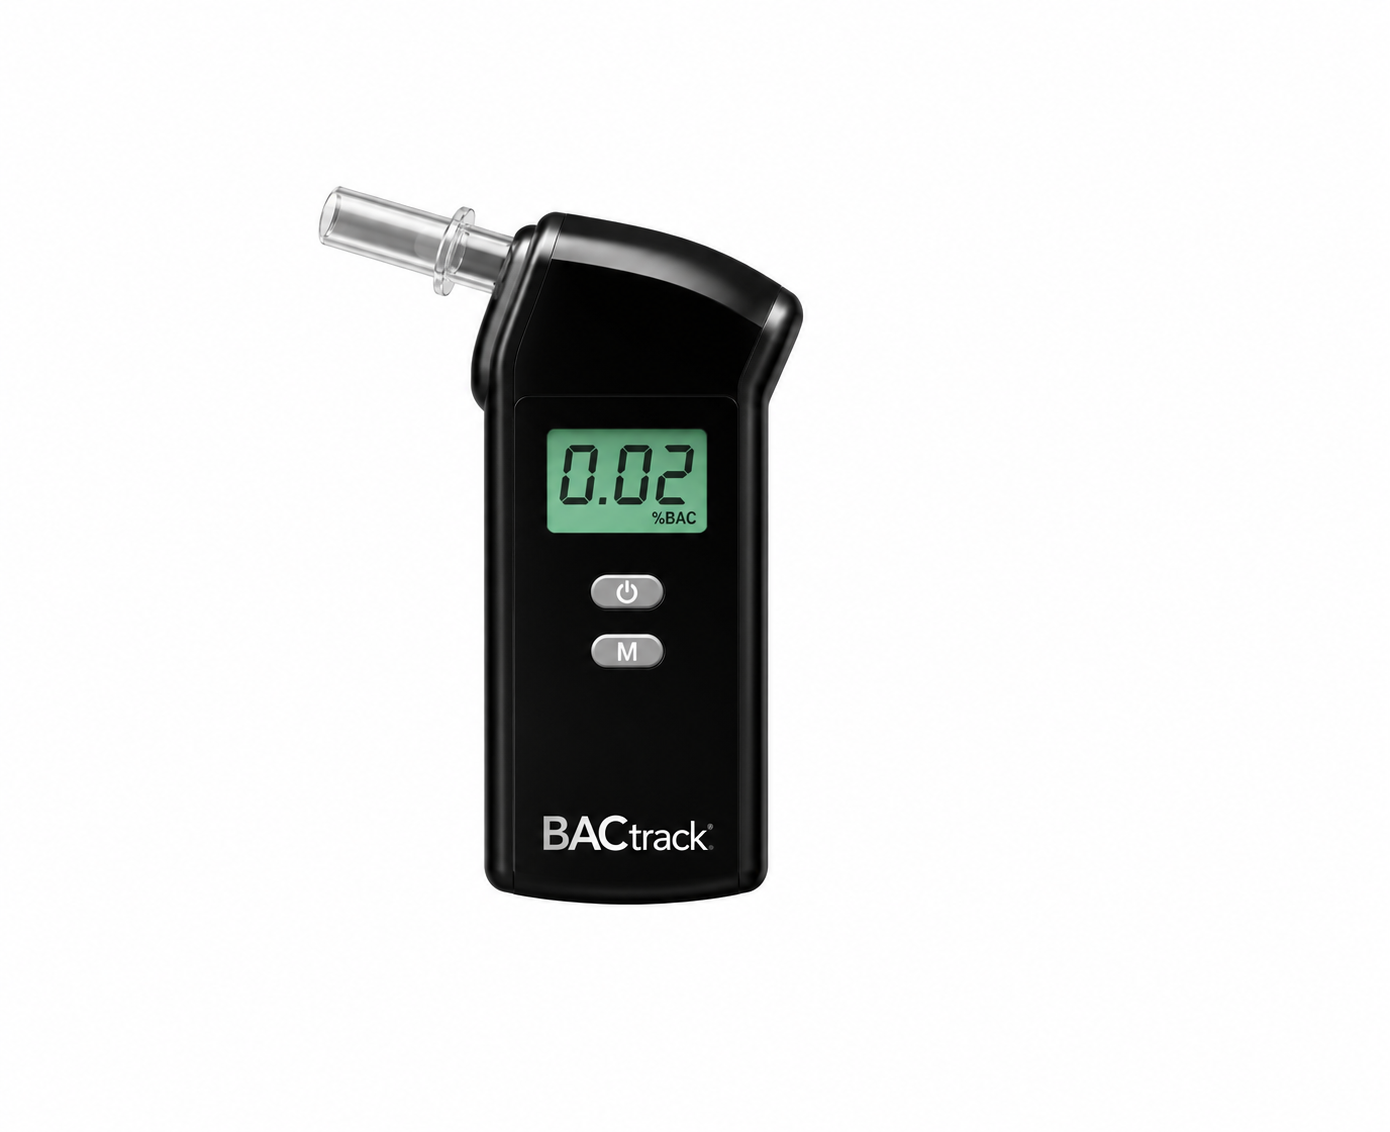
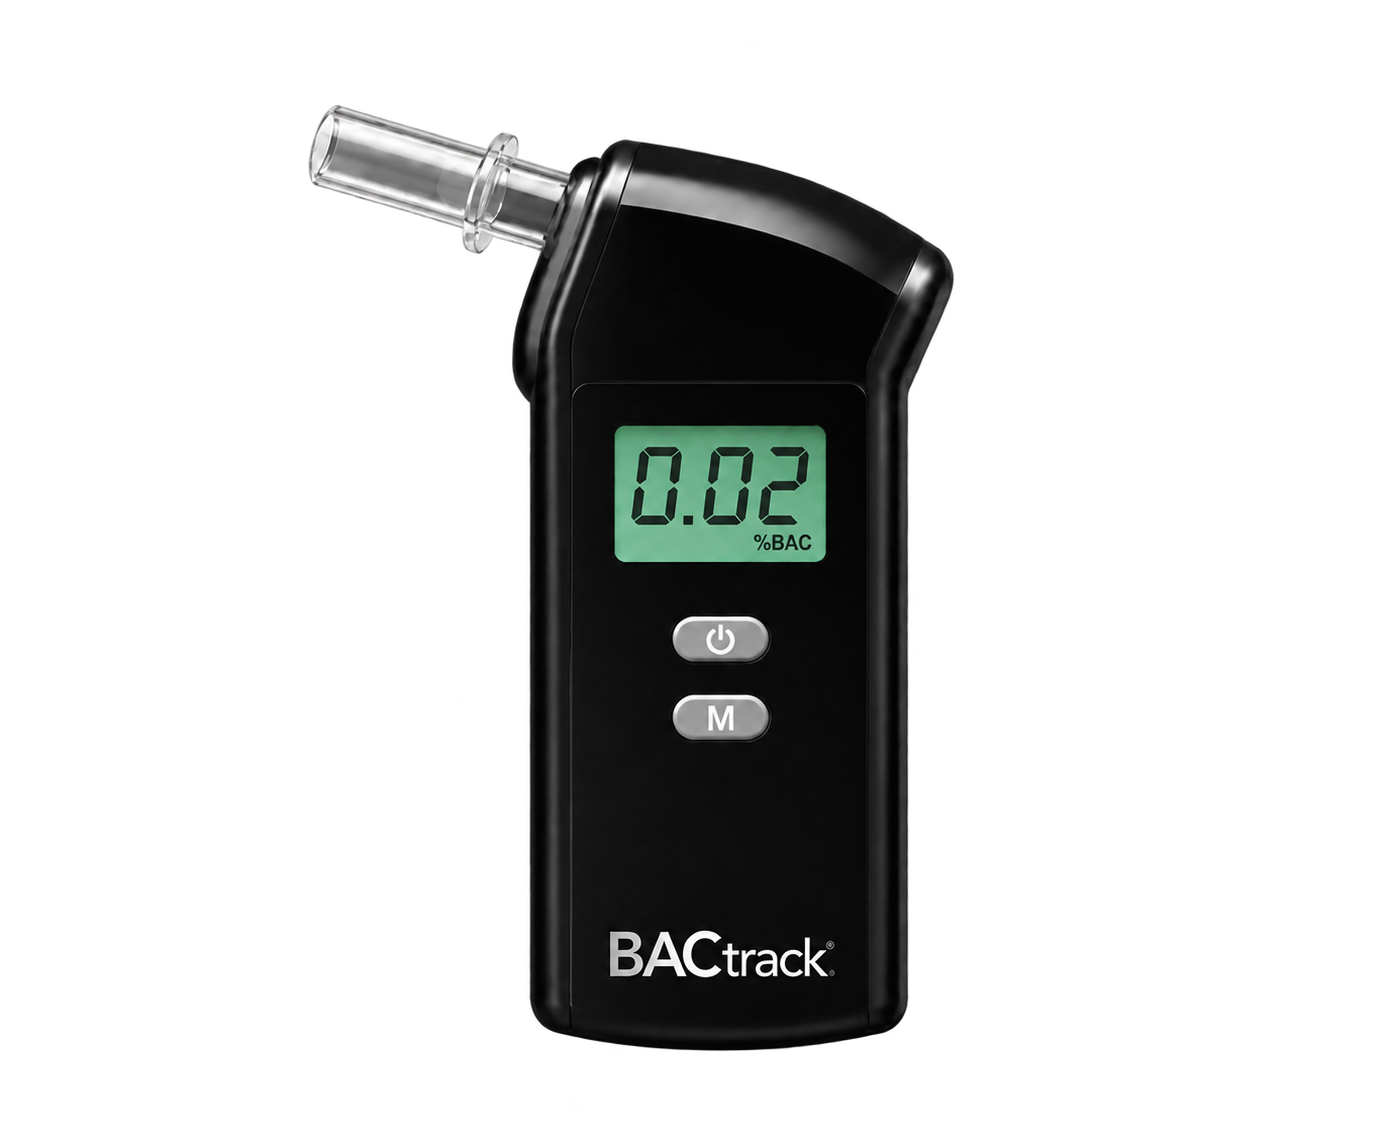
Match craft images to dark theme and add item weights

Changed region(s): [[0.2165, 0.0928, 0.6806, 0.9276]]

diff --git a/src/data/crafts.ts b/src/data/crafts.ts
@@ -24,9 +24,9 @@ const item = (id: string, name: string, category: CraftCategory, materials: numb
   sourcePath: `/ru/items/${type}/${id}`,
 });
 
-const technicalItem = (id: string, name: string, materials: number): CraftItem => ({
-  id, name, category: 'technical', materials, weightKg: null,
-  image: `${import.meta.env.BASE_URL}crafts/${id}.png`,
+const technicalItem = (id: string, name: string, materials: number, weightKg: number, imageVersion?: string): CraftItem => ({
+  id, name, category: 'technical', materials, weightKg,
+  image: `${import.meta.env.BASE_URL}crafts/${id}.png${imageVersion ? `?v=${imageVersion}` : ''}`,
 });
 
 export const craftItems: CraftItem[] = [
@@ -64,10 +64,10 @@ export const craftItems: CraftItem[] = [
   item('834', 'Радар измерения скорости', 'technical', 10, 0.7, 'tool'),
   item('1006', 'Электрическая дубинка', 'technical', 10, 0.58, 'ammunition'),
   item('5000', 'Жезл ДПС', 'technical', 10, 0.5, 'ammunition'),
-  technicalItem('breathalyzer', 'Алкотестер', 5),
-  technicalItem('taumeter', 'Тауметр', 5),
-  technicalItem('beacon-stand', 'Маячковый стенд', 3),
-  technicalItem('traffic-cone', 'Конус', 3),
-  technicalItem('road-fence', 'Дорожное ограждение', 3),
-  technicalItem('concrete-barrier', 'Бетонный отбойник', 3),
+  technicalItem('breathalyzer', 'Алкотестер', 5, 0.2, 'd1f9543f'),
+  technicalItem('taumeter', 'Тауметр', 5, 0.2, '6851c6d4'),
+  technicalItem('beacon-stand', 'Маячковый стенд', 3, 2),
+  technicalItem('traffic-cone', 'Конус', 3, 0.3),
+  technicalItem('road-fence', 'Дорожное ограждение', 3, 1),
+  technicalItem('concrete-barrier', 'Бетонный отбойник', 3, 5),
 ];
